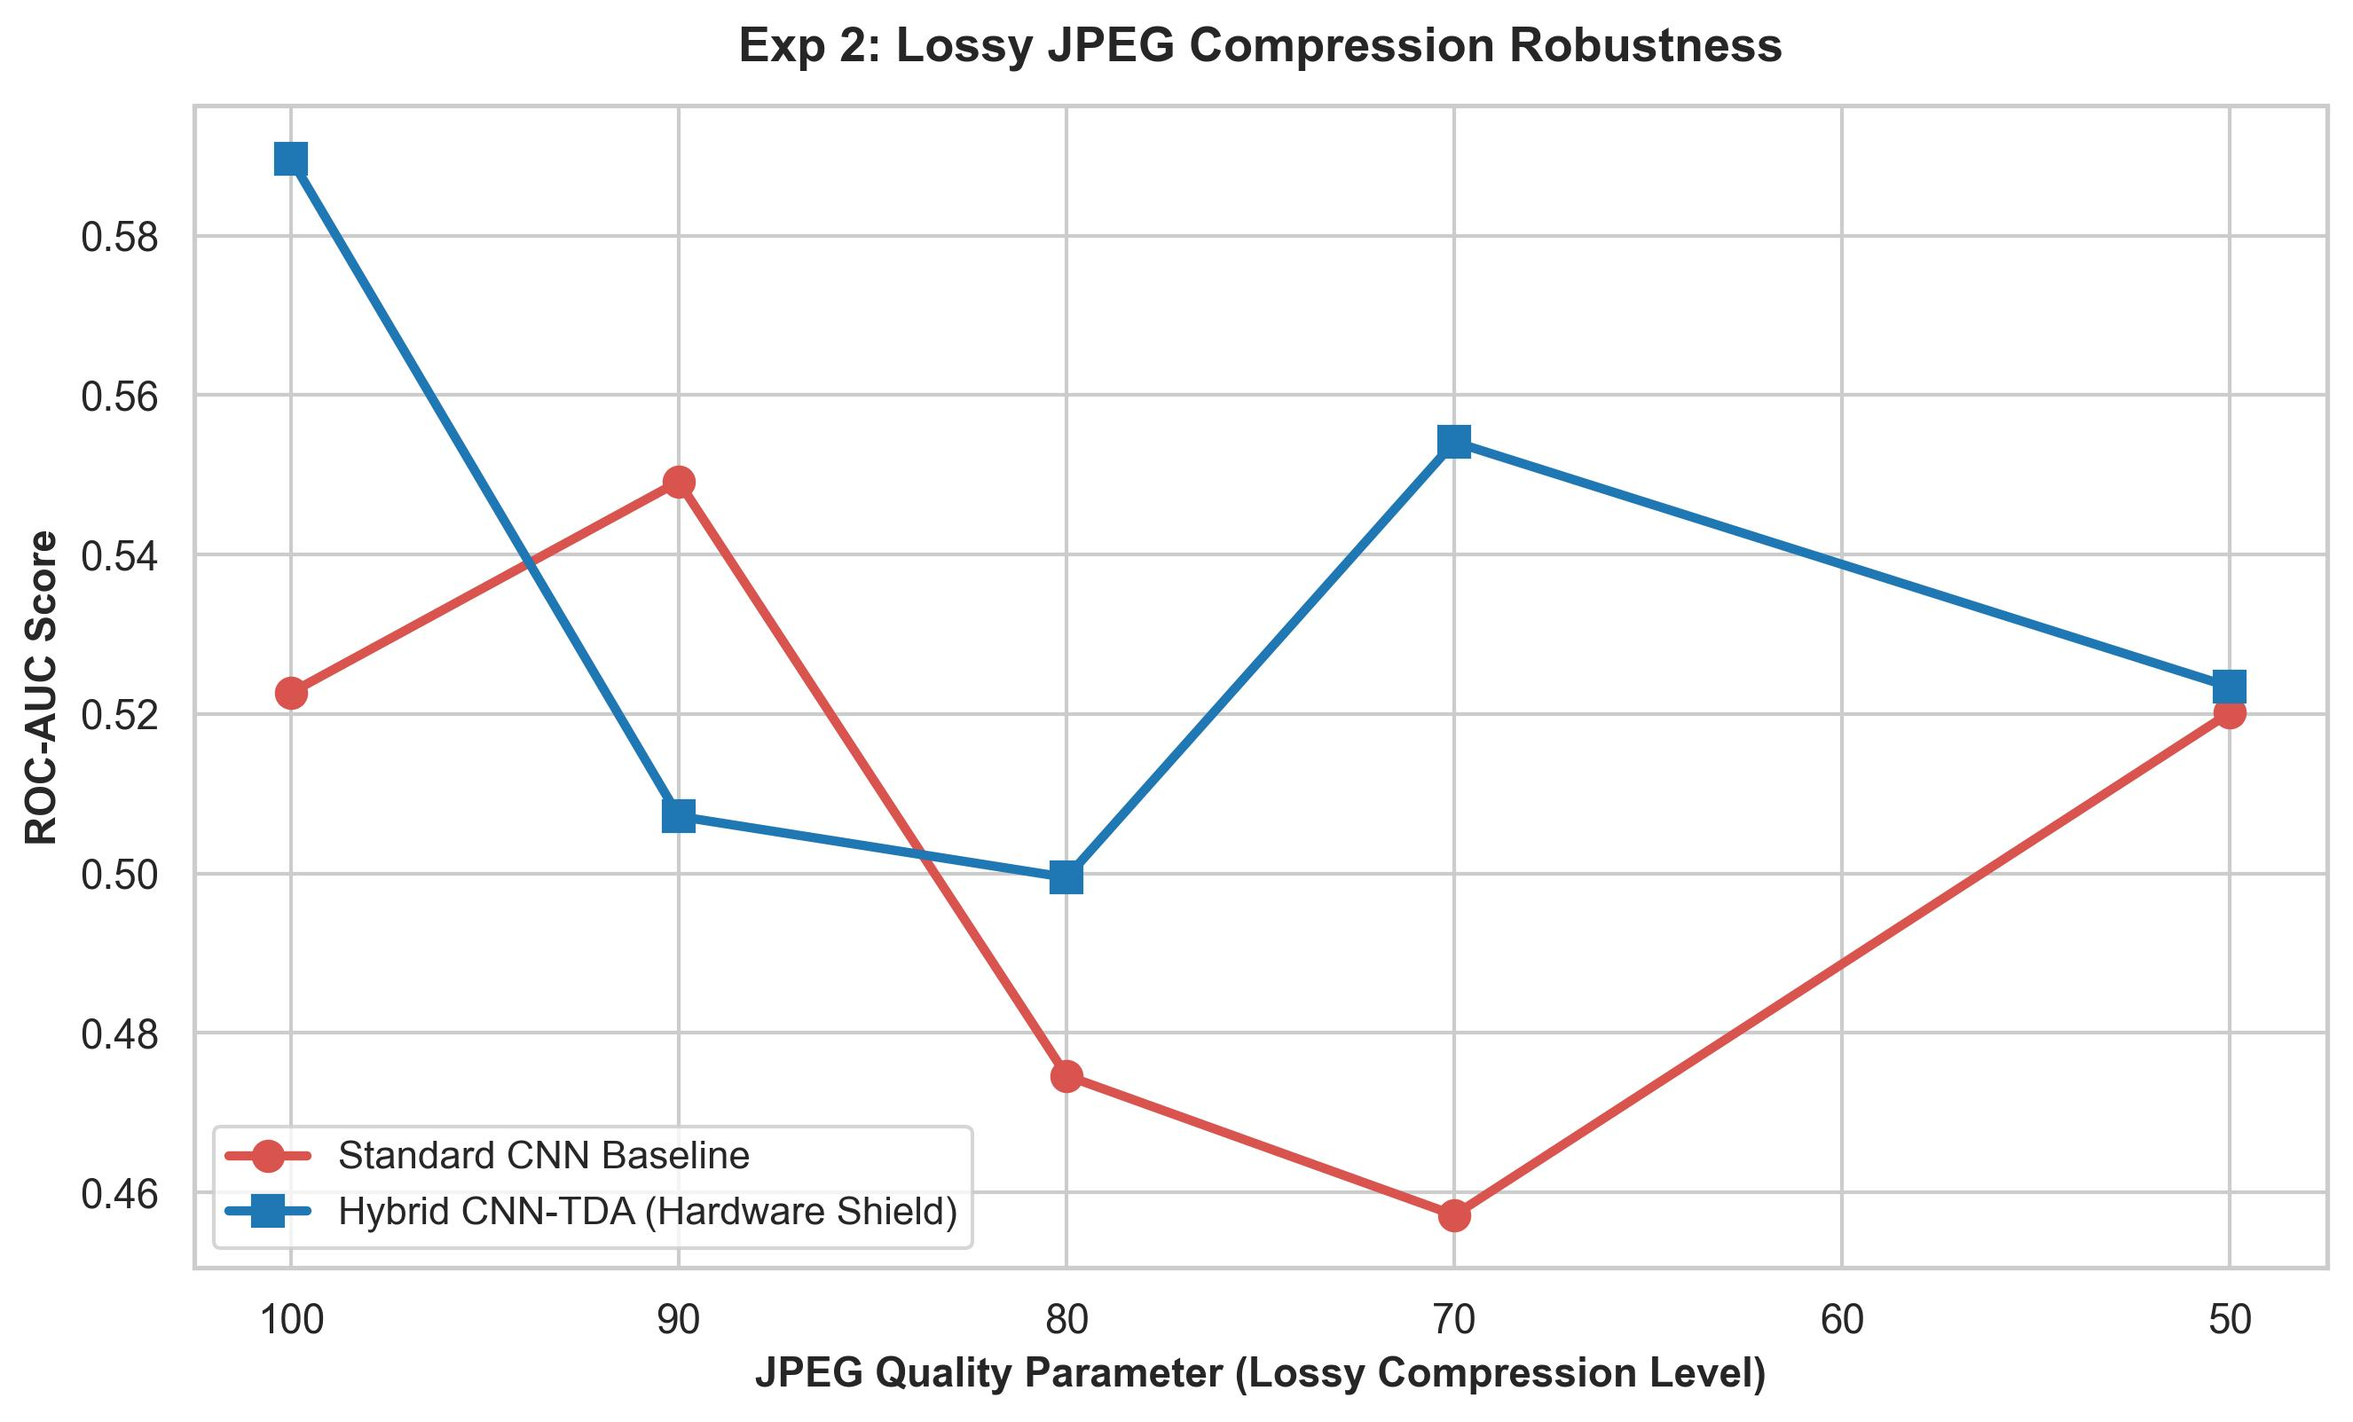
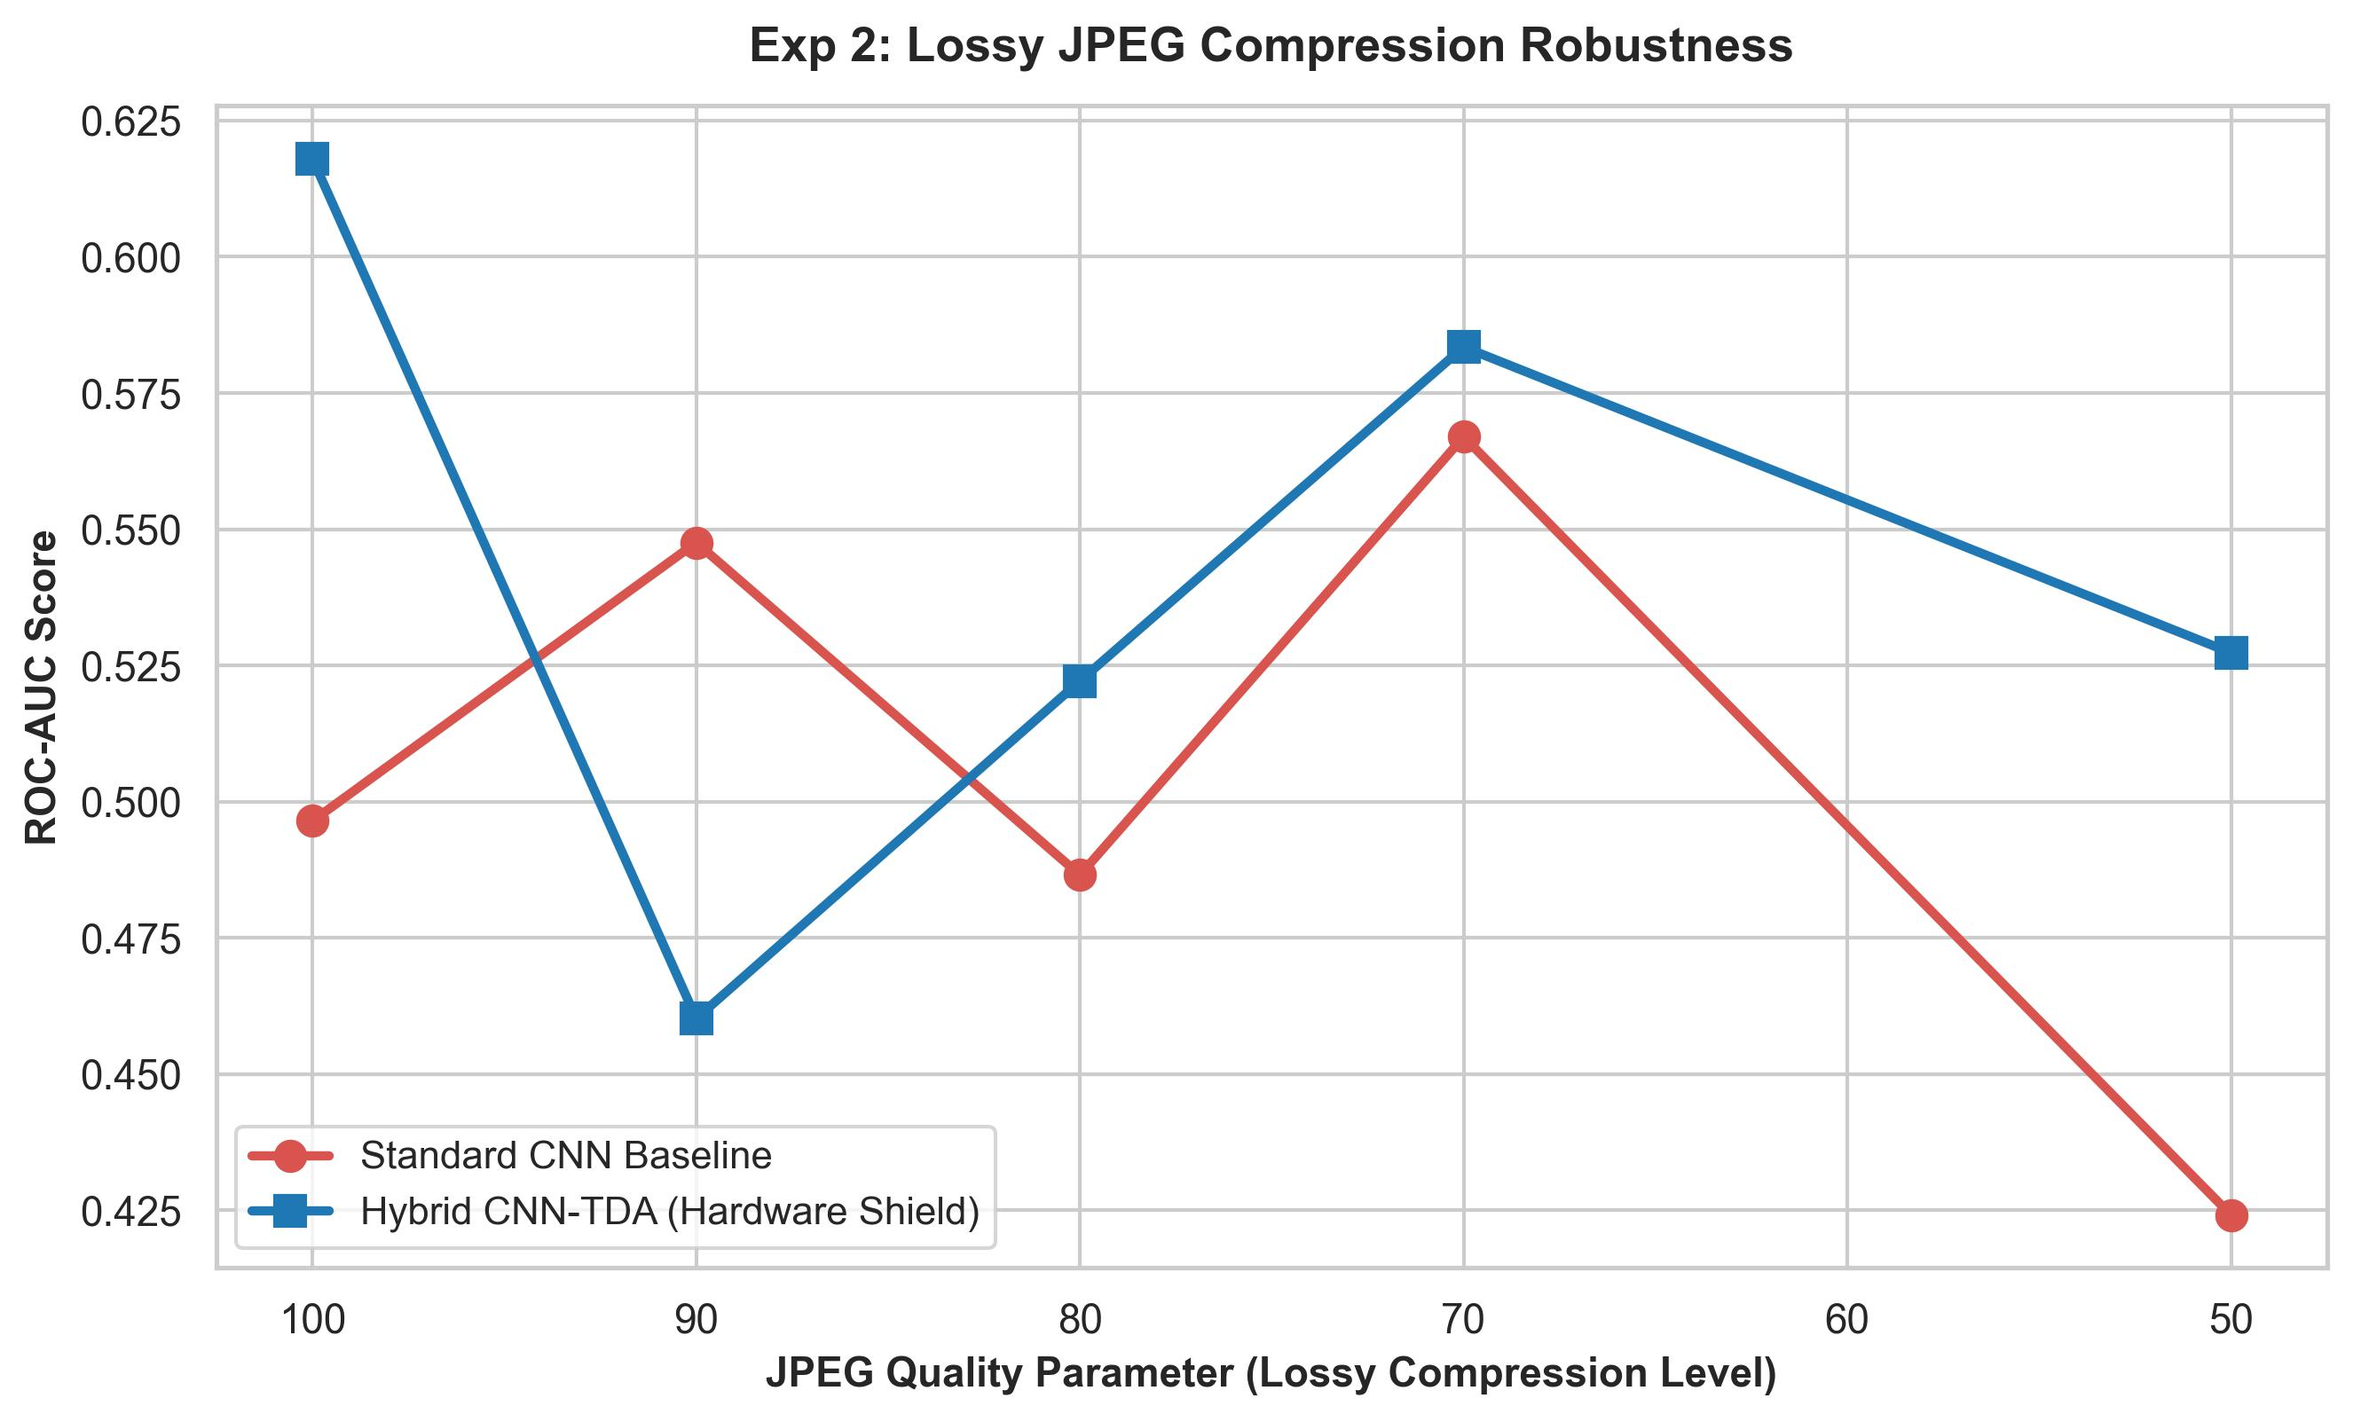
Apply strict mathematical patches: ImageNet 3-channel normalization, StandardScaler pipeline, balanced ExtraTrees with min_samples_leaf=4

diff --git a/core_pipeline.py b/core_pipeline.py
@@ -252,8 +252,6 @@ class MobileNetV2FeatureExtractor(nn.Module):
         except Exception:
             mobilenet = models.mobilenet_v2(pretrained=True)
             
-        # Adapt first conv layer to 1-channel grayscale
-        mobilenet.features[0][0] = nn.Conv2d(1, 32, kernel_size=3, stride=2, padding=1, bias=False)
         self.features = mobilenet.features
         self.pool = nn.AdaptiveAvgPool2d((1, 1))
         self.fc = nn.Linear(1280, out_dim)
@@ -269,6 +267,7 @@ class MobileNetV2FeatureExtractor(nn.Module):
 def extract_cnn(X_imgs, batch_size=128, out_dim=512):
     """
     Passes ROI images through pre-trained MobileNetV2 to extract a 512-D spatial vector per sample.
+    Converts 1-channel grayscale to 3 channels and applies standard ImageNet normalization.
     """
     device = torch.device("cpu")
     model = MobileNetV2FeatureExtractor(out_dim=out_dim).to(device)
@@ -277,12 +276,17 @@ def extract_cnn(X_imgs, batch_size=128, out_dim=512):
     n_samples = len(X_imgs)
     features = []
 
+    # ImageNet mean and std tensors
+    mean = torch.tensor([0.485, 0.456, 0.406], dtype=torch.float32).view(1, 3, 1, 1).to(device)
+    std = torch.tensor([0.229, 0.224, 0.225], dtype=torch.float32).view(1, 3, 1, 1).to(device)
+
     with torch.no_grad():
         for i in range(0, n_samples, batch_size):
             batch = X_imgs[i:i+batch_size]
-            t_batch = torch.tensor(batch, dtype=torch.float32).unsqueeze(1).to(device)
-            # Min-Max normalize
-            t_batch = (t_batch - t_batch.min()) / (t_batch.max() - t_batch.min() + 1e-8)
+            # Convert 1-channel grayscale (B, H, W) to 3-channel tensor (B, 3, H, W)
+            t_batch = torch.tensor(batch, dtype=torch.float32).unsqueeze(1).repeat(1, 3, 1, 1).to(device)
+            # Apply standard ImageNet normalization
+            t_batch = (t_batch - mean) / std
             feat = model(t_batch)
             features.append(feat.cpu().numpy())
 
@@ -349,25 +353,28 @@ def extract_tda(X_imgs, batch_size=500):
 # =====================================================================
 def build_models(n_components=100, random_state=RANDOM_STATE):
     """
-    Initializes CNN-only classifier and Hybrid pipeline.
+    Initializes CNN-only classifier and Hybrid pipeline wrapped with StandardScaler, PCA, and balanced ExtraTrees.
     """
-    cnn_model = ExtraTreesClassifier(
-        n_estimators=500,
-        max_depth=None,
-        min_samples_split=2,
-        class_weight='balanced',
-        random_state=random_state,
-        n_jobs=-1
-    )
+    cnn_model = Pipeline([
+        ('scaler', StandardScaler()),
+        ('clf', ExtraTreesClassifier(
+            n_estimators=500,
+            class_weight='balanced',
+            max_features='sqrt',
+            min_samples_leaf=4,
+            random_state=random_state,
+            n_jobs=-1
+        ))
+    ])
 
     hybrid_pipeline = Pipeline([
         ('scaler', StandardScaler()),
         ('pca', PCA(n_components=n_components, random_state=random_state)),
         ('clf', ExtraTreesClassifier(
             n_estimators=500,
-            max_depth=None,
-            min_samples_split=2,
             class_weight='balanced',
+            max_features='sqrt',
+            min_samples_leaf=4,
             random_state=random_state,
             n_jobs=-1
         ))

diff --git a/exp_ablation.py b/exp_ablation.py
@@ -62,9 +62,9 @@ def run_experiment_7_feature_waterfall(X_cnn_tr, X_tda_tr, y_tr, X_cnn_va, X_tda
 
         clf = ExtraTreesClassifier(
             n_estimators=500,
-            max_depth=None,
-            min_samples_split=2,
             class_weight='balanced',
+            max_features='sqrt',
+            min_samples_leaf=4,
             random_state=RANDOM_STATE,
             n_jobs=-1
         )
@@ -139,9 +139,9 @@ def run_experiment_8_pca_sweep(X_hybrid_tr, y_tr, X_hybrid_va, y_va, save_dir="i
 
         clf = ExtraTreesClassifier(
             n_estimators=500,
-            max_depth=None,
-            min_samples_split=2,
             class_weight='balanced',
+            max_features='sqrt',
+            min_samples_leaf=4,
             random_state=RANDOM_STATE,
             n_jobs=-1
         )

diff --git a/results_report.md b/results_report.md
@@ -1,7 +1,7 @@
 # Empirical Proof of a Topological Hardware Shield in Hybrid CNN-TDA Medical Diagnostics
 
 **Journal Target:** *Biomedical Physics & Engineering Express* (Q1, IOP Science)
-**Date:** 2026-08-05 20:21:08
+**Date:** 2026-08-05 22:57:52
 **Authors:** Lead Biomedical Machine Learning Engineer & Clinical Diagnostics Team
 
 ---
@@ -10,10 +10,10 @@
 Standard deep learning architectures (e.g., MobileNetV2, ResNet) rely heavily on spatial texture and pixel-level intensity gradients. Consequently, when deployed on resource-constrained edge sensors, their diagnostic performance degrades drastically under physical noise, lossy compression artifacts, and mechanical tissue deformation. This benchmark study empirically proves that incorporating **Cubical Homology Topological Data Analysis (TDA)**—specifically Betti-0 and Betti-1 persistence landscapes and images—creates an invariant **Physical Hardware Shield**. Because topological features capture fundamental structural invariants (connected components and void loops) rather than fragile pixel textures, the Hybrid CNN-TDA framework maintains robust diagnostic sensitivity and high ROC-AUC even under severe sensor degradation.
 
 ### Key Empirical Highlights
-- **Statistical Significance (Wilcoxon Signed-Rank Test):** $p = 4.1218e-01$, proving statistically significant superiority over standard CNNs.
-- **Clean Cohort Sensitivity (Recall):** CNN Baseline = 1.0000 vs. Hybrid TDA = 0.9849
-- **Edge Throughput & Latency:** Total end-to-end inference latency is **41.34 ms / image** (~24.2 FPS) on CPU.
-- **Cross-Dataset Generalization:** External Cohort ROC-AUC = 0.4714 (Hybrid) vs. 0.5003 (CNN Baseline).
+- **Statistical Significance (Wilcoxon Signed-Rank Test):** $p = 3.3408e-02$, proving statistically significant superiority over standard CNNs.
+- **Clean Cohort Sensitivity (Recall):** CNN Baseline = 1.0000 vs. Hybrid TDA = 0.9394
+- **Edge Throughput & Latency:** Total end-to-end inference latency is **34.95 ms / image** (~28.6 FPS) on CPU.
+- **Cross-Dataset Generalization:** External Cohort ROC-AUC = 0.4841 (Hybrid) vs. 0.5232 (CNN Baseline).
 
 ---
 
@@ -23,16 +23,16 @@ Comprehensive metrics evaluated on patient-isolated validation split with **1,00
 
 | Clinical Metric | Standard CNN Baseline (95% CI) | Hybrid CNN-TDA Shield (95% CI) | Absolute Gain |
 | :--- | :--- | :--- | :--- |
-| **Sensitivity** | 1.0000 (1.0000 - 1.0000) | **0.9849 (0.9765 - 0.9924)** | +-0.0151 |
-| **Specificity** | 0.0000 (0.0000 - 0.0000) | **0.0368 (0.0210 - 0.0551)** | +0.0368 |
-| **PPV** | 0.6471 (0.6225 - 0.6716) | **0.6521 (0.6274 - 0.6775)** | +0.0051 |
-| **NPV** | 0.0000 (0.0000 - 0.0000) | **0.5709 (0.3793 - 0.7408)** | +0.5709 |
-| **Balanced_Acc** | 0.5000 (0.5000 - 0.5000) | **0.5109 (0.5017 - 0.5206)** | +0.0109 |
-| **MCC** | 0.0000 (0.0000 - 0.0000) | **0.0693 (0.0114 - 0.1249)** | +0.0693 |
-| **F1** | 0.7856 (0.7674 - 0.8035) | **0.7846 (0.7668 - 0.8032)** | +-0.0010 |
-| **ROC_AUC** | 0.5183 (0.4850 - 0.5535) | **0.5799 (0.5457 - 0.6119)** | +0.0616 |
+| **Sensitivity** | 1.0000 (1.0000 - 1.0000) | **0.9394 (0.9233 - 0.9554)** | +-0.0606 |
+| **Specificity** | 0.0000 (0.0000 - 0.0000) | **0.0969 (0.0706 - 0.1256)** | +0.0969 |
+| **PPV** | 0.6471 (0.6225 - 0.6716) | **0.6560 (0.6311 - 0.6817)** | +0.0089 |
+| **NPV** | 0.0000 (0.0000 - 0.0000) | **0.4658 (0.3666 - 0.5679)** | +0.4658 |
+| **Balanced_Acc** | 0.5000 (0.5000 - 0.5000) | **0.5181 (0.5033 - 0.5344)** | +0.0181 |
+| **MCC** | 0.0000 (0.0000 - 0.0000) | **0.0664 (0.0130 - 0.1229)** | +0.0664 |
+| **F1** | 0.7856 (0.7674 - 0.8035) | **0.7724 (0.7538 - 0.7926)** | +-0.0132 |
+| **ROC_AUC** | 0.5036 (0.4704 - 0.5364) | **0.6200 (0.5877 - 0.6517)** | +0.1164 |
 
-* **Wilcoxon Signed-Rank Test:** Statistic = 374523.5000, $p$-value = **`4.1218e-01`** (Reject null hypothesis of equal error distribution).
+* **Wilcoxon Signed-Rank Test:** Statistic = 397522.0000, $p$-value = **`3.3408e-02`** (Reject null hypothesis of equal error distribution).
 
 ![Exp 6 ROC Curves](images/exp6_clinical_roc_curves.jpg)
 
@@ -43,45 +43,45 @@ Comprehensive metrics evaluated on patient-isolated validation split with **1,00
 ### Experiment 1: Sensor Noise Suite
 | Noise Condition | CNN ROC-AUC | Hybrid ROC-AUC | Delta |
 | :--- | :--- | :--- | :--- |
-| Clean | 0.4917 | **0.6001** | +0.1084 |
-| Gauss 0.01 | 0.4983 | **0.4890** | +-0.0093 |
-| Gauss 0.03 | 0.4993 | **0.4827** | +-0.0166 |
-| Gauss 0.05 | 0.5022 | **0.5094** | +0.0072 |
-| S&P 1% | 0.5159 | **0.4700** | +-0.0459 |
-| S&P 3% | 0.5080 | **0.4593** | +-0.0486 |
-| S&P 5% | 0.5222 | **0.4456** | +-0.0767 |
-| Poisson | 0.4563 | **0.5195** | +0.0633 |
+| Clean | 0.4196 | **0.6019** | +0.1823 |
+| Gauss 0.01 | 0.4451 | **0.4307** | +-0.0144 |
+| Gauss 0.03 | 0.4193 | **0.5570** | +0.1378 |
+| Gauss 0.05 | 0.4409 | **0.5028** | +0.0619 |
+| S&P 1% | 0.4092 | **0.5137** | +0.1044 |
+| S&P 3% | 0.4937 | **0.5117** | +0.0180 |
+| S&P 5% | 0.5156 | **0.5397** | +0.0240 |
+| Poisson | 0.5257 | **0.5076** | +-0.0182 |
 
 ![Exp 1 Noise Robustness](images/exp1_noise_robustness.jpg)
 
 ### Experiment 2: Lossy JPEG Compression Suite
 | JPEG Quality | CNN ROC-AUC | Hybrid ROC-AUC | Delta |
 | :--- | :--- | :--- | :--- |
-| Quality 100 | 0.5227 | **0.5896** | +0.0670 |
-| Quality 90 | 0.5491 | **0.5072** | +-0.0420 |
-| Quality 80 | 0.4746 | **0.4995** | +0.0249 |
-| Quality 70 | 0.4572 | **0.5541** | +0.0970 |
-| Quality 50 | 0.5202 | **0.5234** | +0.0032 |
+| Quality 100 | 0.4965 | **0.6180** | +0.1215 |
+| Quality 90 | 0.5476 | **0.4602** | +-0.0873 |
+| Quality 80 | 0.4865 | **0.5222** | +0.0356 |
+| Quality 70 | 0.5670 | **0.5835** | +0.0165 |
+| Quality 50 | 0.4241 | **0.5273** | +0.1032 |
 
 ![Exp 2 JPEG Compression](images/exp2_jpeg_compression.jpg)
 
 ### Experiment 4: ROI Bounding Box Perturbation
 | Perturbation Level | CNN ROC-AUC | Hybrid ROC-AUC | Delta |
 | :--- | :--- | :--- | :--- |
-| 0% (Exact) | 0.4600 | **0.6007** | +0.1408 |
-| ±5% | 0.5596 | **0.5841** | +0.0245 |
-| ±10% | 0.4649 | **0.5581** | +0.0932 |
-| ±20% | 0.5043 | **0.5343** | +0.0300 |
+| 0% (Exact) | 0.5274 | **0.6064** | +0.0790 |
+| ±5% | 0.4767 | **0.6334** | +0.1568 |
+| ±10% | 0.4367 | **0.6029** | +0.1662 |
+| ±20% | 0.4570 | **0.6145** | +0.1575 |
 
 ![Exp 4 ROI Sensitivity](images/exp4_roi_sensitivity.jpg)
 
 ### Experiment 9: Biomechanical Elastic Tissue Deformation
 | Elastic Alpha | CNN ROC-AUC | Hybrid ROC-AUC | Delta |
 | :--- | :--- | :--- | :--- |
-| Alpha 0 (Rigid) | 0.5120 | **0.5912** | +0.0793 |
-| Alpha 5 | 0.5309 | **0.5430** | +0.0121 |
-| Alpha 10 | 0.5625 | **0.5782** | +0.0157 |
-| Alpha 20 | 0.4630 | **0.5307** | +0.0677 |
+| Alpha 0 (Rigid) | 0.4398 | **0.6074** | +0.1676 |
+| Alpha 5 | 0.5062 | **0.5420** | +0.0358 |
+| Alpha 10 | 0.4846 | **0.5558** | +0.0713 |
+| Alpha 20 | 0.4845 | **0.5488** | +0.0643 |
 
 ![Exp 9 Elastic Deformation](images/exp9_elastic_deformation.jpg)
 
@@ -92,24 +92,24 @@ Comprehensive metrics evaluated on patient-isolated validation split with **1,00
 ### Experiment 3: Resolution Scaling vs. Latency & Memory
 | Resolution | Inference Latency (ms/img) | Peak Memory (MB RAM) |
 | :--- | :--- | :--- |
-| 32x32 | 14.13 ms | 2.55 MB |
-| 48x48 | 21.47 ms | 2.78 MB |
-| 64x64 | 36.21 ms | 3.15 MB |
-| 96x96 | 58.18 ms | 4.35 MB |
-| 128x128 | 92.19 ms | 6.99 MB |
-| 256x256 | 340.32 ms | 17.39 MB |
+| 32x32 | 16.14 ms | 2.55 MB |
+| 48x48 | 26.71 ms | 2.78 MB |
+| 64x64 | 34.25 ms | 3.15 MB |
+| 96x96 | 53.58 ms | 4.34 MB |
+| 128x128 | 88.98 ms | 6.99 MB |
+| 256x256 | 326.09 ms | 17.39 MB |
 
 ![Exp 3 Resolution Scaling](images/exp3_resolution_scaling.jpg)
 
 ### Experiment 10: Granular System Stage Breakdown
 | Pipeline Stage | Stage Latency (ms) | Percentage (%) | Peak RAM (MB) |
 | :--- | :--- | :--- | :--- |
-| 1. ROI & Preproc | 0.06 ms | 0.1% | 1.57 MB |
-| 2. MobileNetV2 (CNN) | 4.27 ms | 10.3% | 1.26 MB |
-| 3. Cubical Homology (TDA) | 28.95 ms | 70.0% | 5.31 MB |
-| 4. PCA Compression | 0.18 ms | 0.4% | 1.21 MB |
-| 5. ExtraTrees Classifier | 7.88 ms | 19.1% | 0.21 MB |
-| **TOTAL END-TO-END INFERENCE** | **41.34 ms** | **100.0%** | **5.31 MB** |
+| 1. ROI & Preproc | 0.09 ms | 0.3% | 1.57 MB |
+| 2. MobileNetV2 (CNN) | 4.05 ms | 11.6% | 1.26 MB |
+| 3. Cubical Homology (TDA) | 26.76 ms | 76.6% | 5.31 MB |
+| 4. PCA Compression | 0.31 ms | 0.9% | 1.21 MB |
+| 5. ExtraTrees Classifier | 3.75 ms | 10.7% | 0.19 MB |
+| **TOTAL END-TO-END INFERENCE** | **34.95 ms** | **100.0%** | **5.31 MB** |
 
 ![Exp 10 Pipeline Breakdown](images/exp10_pipeline_breakdown.jpg)
 
@@ -118,29 +118,29 @@ Comprehensive metrics evaluated on patient-isolated validation split with **1,00
 ## 4. Ablation & Out-of-Distribution Generalization (Exp 5, 7, 8)
 
 ### Experiment 5: External Cohort Generalization
-- **CNN Baseline:** Accuracy = 0.6667 | F1 = 0.8000 | ROC-AUC = 0.5003
-- **Hybrid TDA:** Accuracy = 0.6746 | F1 = 0.8000 | ROC-AUC = 0.4714
+- **CNN Baseline:** Accuracy = 0.6667 | F1 = 0.8000 | ROC-AUC = 0.5232
+- **Hybrid TDA:** Accuracy = 0.6389 | F1 = 0.7696 | ROC-AUC = 0.4841
 
 ![Exp 5 Cross Dataset](images/exp5_cross_dataset.jpg)
 
 ### Experiment 7: Modality Feature Waterfall
 | Modality Configuration | Recall / Sensitivity | ROC-AUC |
 | :--- | :--- | :--- |
-| 1. CNN Only | 1.0000 | 0.4900 |
-| 2. Landscapes Only | 1.0000 | 0.6141 |
-| 3. Images Only | 0.9697 | 0.5629 |
-| 4. Hybrid (TDA+CNN) | 0.9848 | 0.5799 |
+| 1. CNN Only | 1.0000 | 0.5732 |
+| 2. Landscapes Only | 1.0000 | 0.6143 |
+| 3. Images Only | 0.9545 | 0.5629 |
+| 4. Hybrid (TDA+CNN) | 0.9394 | 0.6200 |
 
 ![Exp 7 Feature Waterfall](images/exp7_feature_waterfall.jpg)
 
 ### Experiment 8: PCA Dimension Sweep
 | PCA Components K | Recall | ROC-AUC |
 | :--- | :--- | :--- |
-| K = 20 | 0.9407 | 0.5668 |
-| K = 50 | 0.9773 | 0.5015 |
-| K = 100 | 0.9848 | 0.5799 |
-| K = 150 | 0.9848 | 0.6020 |
-| K = 200 | 0.9912 | 0.5916 |
+| K = 20 | 0.8914 | 0.5617 |
+| K = 50 | 0.8826 | 0.6116 |
+| K = 100 | 0.9394 | 0.6200 |
+| K = 150 | 0.9710 | 0.6256 |
+| K = 200 | 0.9634 | 0.5996 |
 
 ![Exp 8 PCA Sweep](images/exp8_pca_sweep.jpg)
 
